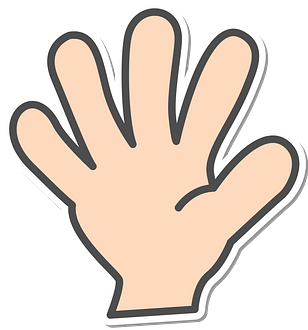
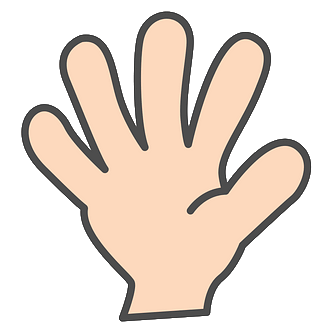
reworked code and rps images to scale properly on the page

Changed region(s): [[0.0292, 0.0, 1.0, 1.0]]

diff --git a/style.css b/style.css
@@ -14,7 +14,6 @@ html {
 
 body {
     font-size: 1.6rem;
-    /* font-family: Arial, Helvetica, sans-serif; */
     font-family: 'Orbitron', sans-serif;
     letter-spacing: 2px;
 }
@@ -62,7 +61,6 @@ main {
 
 .player h2{
     margin-left: 0.5em;
-    /* width: ; */
 }
 
 .totals .score {
@@ -93,6 +91,30 @@ main {
     align-items: center;
     justify-content: center;
 }
+
+.battle div{
+    padding: 0 2em;
+    border: 1px solid black;
+    height: 20em;
+    width: 20em;
+    display: flex;
+    align-items: center;
+    justify-content: center;
+}
+
+.battle div img{
+    object-fit: contain;
+    height: 100%;
+}
+
+.battle .computer img {
+    transform: scaleX(-1) rotateZ(-90deg);
+}
+
+.battle .player img {
+    transform: rotateZ(-90deg);
+}
+
 
 
 /* ANIMATIONS */

diff --git a/index.html b/index.html
@@ -26,10 +26,10 @@
         </section>
         <section class="battle">
             <div class="computer">
-                <img src="./images/rock.png" alt="rock">
+                <img src="./images/paper.png" alt="rock">
             </div>
             <div class="player">
-                <img src="./images/rock.png" alt="rock">
+                <img src="./images/scissors.png" alt="rock">
             </div>
         </section>
         <section class="selection">
